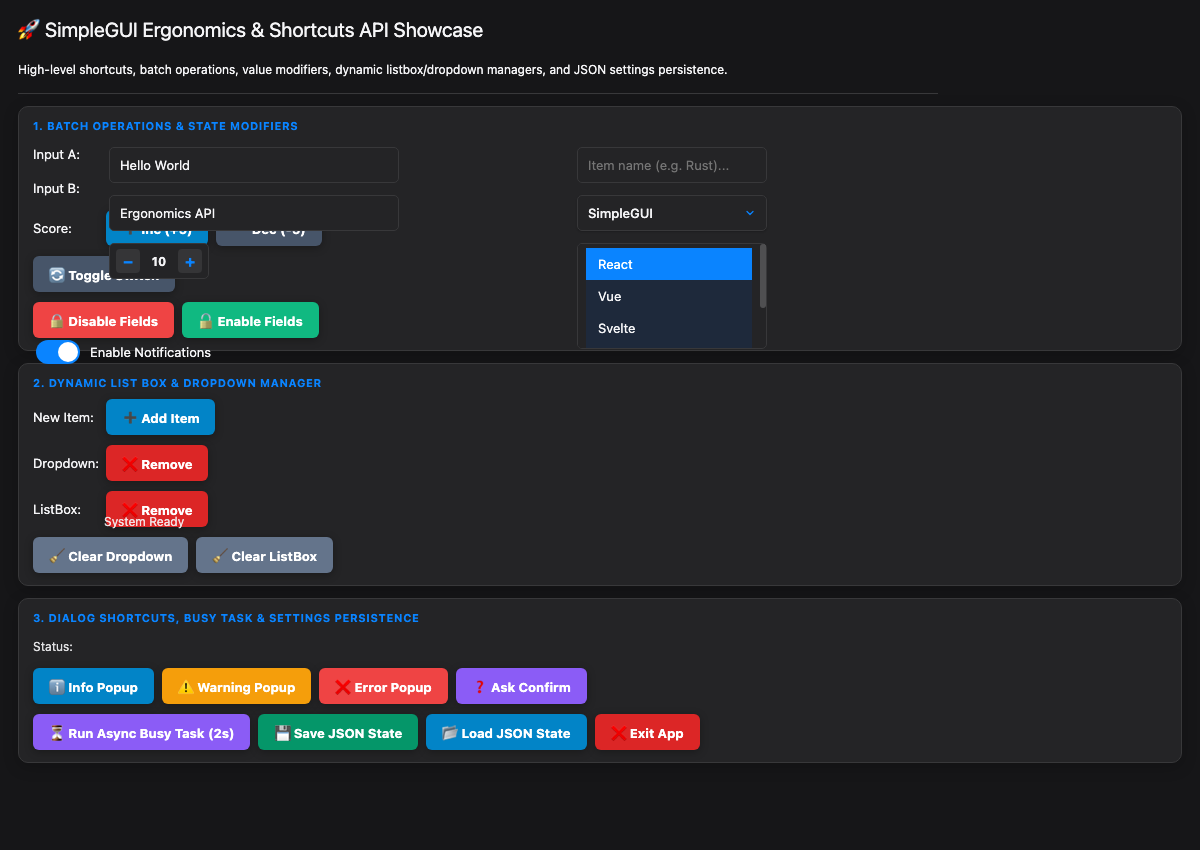
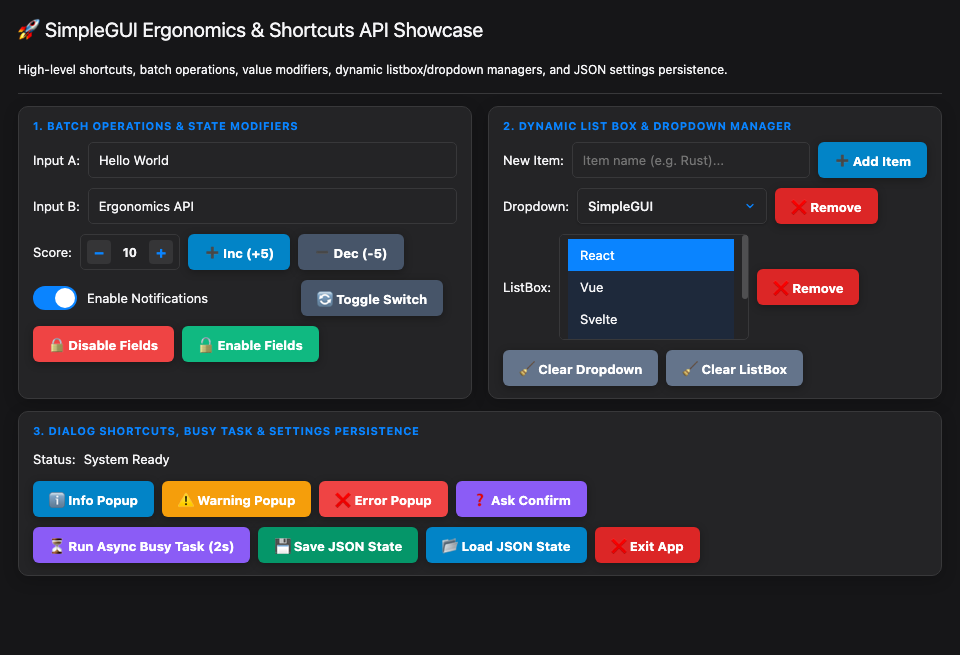
refactor: improve numeric cell alignment and update screenshot capture configuration and assets

diff --git a/index.ts b/index.ts
@@ -1902,9 +1902,10 @@ export function generatePreviewHtml(spec: any): string {
                 const rowDblClickScript = `const fn=window['${c.id}_onDoubleClick']||window['on_${c.id}_doubleclick']||window['on_${c.id}_ondoubleclick'];if(fn)fn('${rowPid}');`;
 
                 return `<tr style="border-bottom:1px solid ${border};cursor:pointer;transition:background 0.12s;" data-pid="${rowPid}" data-row-index="${rIdx}" onclick="${rowClickScript}" ondblclick="${rowDblClickScript}" onmouseover="if(!this.classList.contains('selected-tr'))this.style.background='${hoverBg}'" onmouseout="if(!this.classList.contains('selected-tr'))this.style.background=''">${tdCheckbox}${cells.map((cell: any, i: number) => {
-                    const alignStyle = (i >= 3 && i <= 5) ? 'text-align:right;' : 'text-align:left;';
-                    const monoStyle = (i === 0 || (i >= 3 && i <= 5)) ? 'font-family:monospace;' : '';
                     const strVal = cell === null || cell === undefined ? '' : String(cell);
+                    const isNum = typeof cell === 'number' || (typeof cell === 'string' && /^-?\d+(\.\d+)?$/.test(strVal.trim()));
+                    const alignStyle = isNum ? 'text-align:right;' : 'text-align:left;';
+                    const monoStyle = (i === 0 || isNum) ? 'font-family:monospace;' : '';
                     const isUrl = strVal.startsWith('http://') || strVal.startsWith('https://');
                     const cellHtml = isUrl
                         ? `<a href="${esc(strVal)}" target="_blank" rel="noopener noreferrer" style="color:${accent};text-decoration:underline;cursor:pointer;" onclick="event.stopPropagation();if(typeof window.openUrl==='function'){window.openUrl('${esc(strVal)}');}else if(typeof window.openExternal==='function'){window.openExternal('${esc(strVal)}');}return false;">${esc(strVal)}</a>`

diff --git a/scripts/capture_app_screenshots.ts b/scripts/capture_app_screenshots.ts
@@ -186,7 +186,7 @@ const ergonomicsHtmlPath = join(TEMP_HTML_DIR, "ergonomics_showcase.html");
 writeFileSync(ergonomicsHtmlPath, ergonomicsHtml, "utf8");
 const ergoOut = join(ROOT_DIR, "screenshot_ergonomics.png");
 console.log(`  Capturing Ergonomics Demo (${ergoOut})...`);
-Sys.exec(`"${CHROME_BIN}" --headless --disable-gpu --virtual-time-budget=1000 --screenshot="${ergoOut}" --window-size=1200,850 "file://${ergonomicsHtmlPath}" 2>/dev/null`);
+Sys.exec(`"${CHROME_BIN}" --headless=new --disable-gpu --no-sandbox --user-data-dir="/tmp/chrome_ergo_profile" --screenshot="${ergoOut}" --window-size=960,655 "file://${ergonomicsHtmlPath}" 2>/dev/null`);
 console.log(`  ✔ Ergonomics Showcase: ${ergoOut} (${(Bun.file(ergoOut).size / 1024).toFixed(1)} KB)\n`);
 }
 
